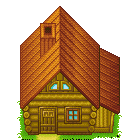
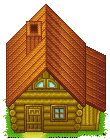
Added new images and fixed a BUG

diff --git a/swag/application/template/application/game.js b/swag/application/template/application/game.js
@@ -151,7 +151,7 @@ var crafty = function() {
 				if(i  == 15 && j == 0)
 				{
 					var house  = Crafty.e("2D, Canvas,Image,Collision,Building,house,SetSorting,Keyboard");
-					house.setImage("/static/house.png");
+					house.setImage("/static/house3.png");
 					house.setScene("BuildingLink",state.checkUnlockedLinkQuest,state.check_link());
 					house.x = TILE_SIZE*i;
 					house.y = TILE_SIZE*j;
@@ -172,7 +172,7 @@ var crafty = function() {
 				if(i  == 24 && j == 13)
 				{
 					var house  = Crafty.e("2D, Canvas,Image,Collision,Building,house,SetSorting,Keyboard");
-					house.setImage("/static/house2.png");
+					house.setImage("/static/house4.png");
 					house.setScene("Hometown",null,null);
 					house.x = TILE_SIZE*i;
 					house.y = TILE_SIZE*j;
@@ -183,7 +183,7 @@ var crafty = function() {
 				if(i  == 1 && j == 10)
 				{
 					var house  = Crafty.e("2D, Canvas,Image,Collision,Building,house,SetSorting,Keyboard");
-					house.setImage("/static/house.png");
+					house.setImage("/static/house5.png");
 					house.setScene("BuildingSkills",state.checkUnlockedSkillsQuest,state.check_skills());
 					house.x = TILE_SIZE*i;
 					house.y = TILE_SIZE*j;
@@ -199,7 +199,7 @@ var crafty = function() {
 		sceneString:"",
 		check:null,
 		questDone:null,
-		offsetX:20,
+		offsetX:10,
 		offsetY:10,
 
 
@@ -477,7 +477,7 @@ var crafty = function() {
 	Crafty.scene("loading", function () 
 	{
         //load takes an array of assets and a callback when complete
-        Crafty.load(["/static/Sprite.png","/static/house.png","/static/Sprite2.png","/static/house2.png"], function ()
+        Crafty.load(["/static/Sprite.png","/static/house.png","/static/Sprite2.png","/static/house2.png","/static/house3.png","/static/house4.png","/static/house5.png"], function ()
         {
             Crafty.scene("main"); //when everything is loaded, run the main scene
             //Crafty.background('rgb(0, 0, 0)');

diff --git a/swag/application/form.py b/swag/application/form.py
@@ -69,11 +69,11 @@ class SkillSetForm(forms.Form):
         elif(index == 5):
             skillString = "I can write basic components"
         elif(index == 4):
-            skillString = "I can program classes  "
-        elif(index == 3):
             skillString = "I can program little scripts"
+        elif(index == 3):
+            skillString = "I can write some functions"
         elif(index == 2):
-            skillString = "I read a book about"
+            skillString = "I have read a book about"
         elif(index == 1):
             skillString = "I have heard about"
         elif(index == 0):

diff --git a/swag/application/models.py b/swag/application/models.py
@@ -52,8 +52,8 @@ class GameInstance(models.Model):
     player_link_unlockedQuest = models.BooleanField(default=False)
     player_skill_unlockedQuest = models.BooleanField(default=False)
     player_unlocked_boss = models.BooleanField(default=False)
-    player_name = models.CharField(max_length=50, null=True, blank=True)
-    player_email = models.EmailField(max_length=100, null=True, blank=True)
+    player_name = models.CharField(max_length=50, blank=True)
+    player_email = models.EmailField(max_length=100, blank=True)
 
     vacancy = models.ForeignKey(Vacancy)
 
